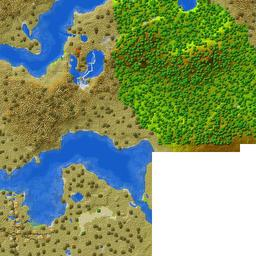
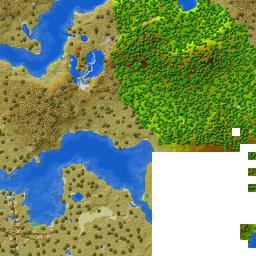
update

Changed region(s): [[0.8438, 0.4062, 1.0, 0.75], [0.9375, 0.875, 1.0, 1.0]]

diff --git a/unmined.map.regions.js b/unmined.map.regions.js
@@ -1,5 +1,5 @@
 var UnminedRegions = [
-{ x: 0, z: 0, m: new Uint32Array([1574655,31,31,1,1,1,0,0,0,0,0,0,0,0,0,0,0,0,0,0,0,0,0,0,0,0,0,0,0,0,0,0,0,0,0,0,0,0,0,0,0,0,0,0,0,0,0,0,0,0,0,0,0,0,0,0,0,0,0,0,0,0,0,0,0,0,0,0,0,0,0,0,0,0,0,0,0,0,0,0,0,0,0,0,0,0,0,0,0,0,0,0,0,0,0,0,0,0,0,0,0,0,0,0,0,0,0,0,0,0,0,0,0,0,0,0,0,0,0,0,0,0,0,0,0,0,0,0,0,0,0,0,0,0,0,0,0,0,0,0,0,0,0,0,0,0,0,0,0,0,0,0,0,0,0,0,0,0,0,0,0,0,0,0,0,0,0,0,0,0,0,0,0,0,0,0,0,0,0,0,0,0,0,0,0,0,0,0,0,0,0,0,0,0,0,0,0,0,0,0,0,0,0,0,0,0,0,0,0,0,0,0,0,0,0,0,0,0,0,0,0,0,0,0,0,0,0,0,0,0,0,0,0,0,0,0,0,0,0,0,0,0,0,0,0,0,0,0,0,0,0,0,0,0,0,0]) },
+{ x: 0, z: 0, m: new Uint32Array([1574655,31,31,3,1,1,0,0,0,0,0,0,0,0,0,0,0,0,0,0,0,0,0,0,0,0,0,0,0,0,0,0,0,0,0,0,0,0,0,0,0,0,0,0,0,0,0,0,0,0,0,0,0,0,0,0,0,0,0,0,0,0,0,0,0,0,0,0,0,0,0,0,0,0,0,0,0,0,0,0,0,0,0,0,0,0,0,0,0,0,0,0,0,0,0,0,0,0,0,0,0,0,0,0,0,0,0,0,0,0,0,0,0,0,0,0,0,0,0,0,0,0,0,0,0,0,0,0,0,0,0,0,0,0,0,0,0,0,0,0,0,0,0,0,0,0,0,0,0,0,0,0,0,0,0,0,0,0,0,0,0,0,0,0,0,0,0,0,0,0,0,0,0,0,0,0,0,0,0,0,0,0,0,0,0,0,0,0,0,0,0,0,0,0,0,0,0,0,0,0,0,0,0,0,0,0,0,0,0,0,0,0,0,0,0,0,0,0,0,0,0,0,0,0,0,0,0,0,0,0,0,0,0,0,0,0,0,0,0,0,0,0,0,0,0,0,0,0,0,0,0,0,0,0,0,0]) },
 { x: 0, z: -1, m: new Uint32Array([0,0,0,0,0,0,0,0,0,0,0,0,0,0,0,0,0,0,0,0,0,0,0,0,0,0,0,0,0,7,255,1574655,0,0,0,0,0,0,0,0,0,0,0,0,0,0,0,0,0,0,0,0,0,0,0,0,0,0,0,0,0,0,0,0,0,0,0,0,0,0,0,0,0,0,0,0,0,0,0,0,0,0,0,0,0,0,0,0,0,0,0,0,0,0,0,0,0,0,0,0,0,0,0,0,0,0,0,0,0,0,0,0,0,0,0,0,0,0,0,0,0,0,0,0,0,0,0,0,0,0,0,0,0,0,0,0,0,0,0,0,0,0,0,0,0,0,0,0,0,0,0,0,0,0,0,0,0,0,0,0,0,0,0,0,0,0,0,0,0,0,0,0,0,0,0,0,0,0,0,0,0,0,0,0,0,0,0,0,0,0,0,0,0,0,0,0,0,0,0,0,0,0,0,0,0,0,0,0,0,0,0,0,0,0,0,0,0,0,0,0,0,0,0,0,0,0,0,0,0,0,0,0,0,0,0,0,0,0,0,0,0,0,0,0,0,0,0,0,0,0,0,0,0,0,0,0]) },
 { x: -1, z: 0, m: new Uint32Array([3758096384,3221225472,3221225472,3221225472,4026531840,4026531840,4026531840,0,0,0,0,0,0,0,0,0,0,0,0,0,0,0,0,0,0,0,0,0,0,0,0,0,0,0,0,0,0,0,0,0,0,0,0,0,0,0,0,0,0,0,0,0,0,0,0,0,0,0,0,0,0,0,0,0,0,0,0,0,0,0,0,0,0,0,0,0,0,0,0,0,0,0,0,0,0,0,0,0,0,0,0,0,0,0,0,0,0,0,0,0,0,0,0,0,0,0,0,0,0,0,0,0,0,0,0,0,0,0,0,0,0,0,0,0,0,0,0,0,0,0,0,0,0,0,0,0,0,0,0,0,0,0,0,0,0,0,0,0,0,0,0,0,0,0,0,0,0,0,0,0,0,0,0,0,0,0,0,0,0,0,0,0,0,0,0,0,0,0,0,0,0,0,0,0,0,0,0,0,0,0,0,0,0,0,0,0,0,0,0,0,0,0,0,0,0,0,0,0,0,0,0,0,0,0,0,0,0,0,0,0,0,0,0,0,0,0,0,0,0,0,0,0,0,0,0,0,0,0,0,0,0,0,0,0,0,0,0,0,0,0,0,0,0,0,0,0]) },
 { x: -1, z: -1, m: new Uint32Array([0,0,0,0,0,0,0,0,0,0,0,0,0,0,0,0,0,0,0,0,0,0,0,0,0,0,0,3758096384,4160749568,4160749568,4160749568,3758096384,0,0,0,0,0,0,0,0,0,0,0,0,0,0,0,0,0,0,0,0,0,0,0,0,0,0,0,0,0,0,0,0,0,0,0,0,0,0,0,0,0,0,0,0,0,0,0,0,0,0,0,0,0,0,0,0,0,0,0,0,0,0,0,0,0,0,0,0,0,0,0,0,0,0,0,0,0,0,0,0,0,0,0,0,0,0,0,0,0,0,0,0,0,0,0,0,0,0,0,0,0,0,0,0,0,0,0,0,0,0,0,0,0,0,0,0,0,0,0,0,0,0,0,0,0,0,0,0,0,0,0,0,0,0,0,0,0,0,0,0,0,0,0,0,0,0,0,0,0,0,0,0,0,0,0,0,0,0,0,0,0,0,0,0,0,0,0,0,0,0,0,0,0,0,0,0,0,0,0,0,0,0,0,0,0,0,0,0,0,0,0,0,0,0,0,0,0,0,0,0,0,0,0,0,0,0,0,0,0,0,0,0,0,0,0,0,0,0,0,0,0,0,0,0]) },
